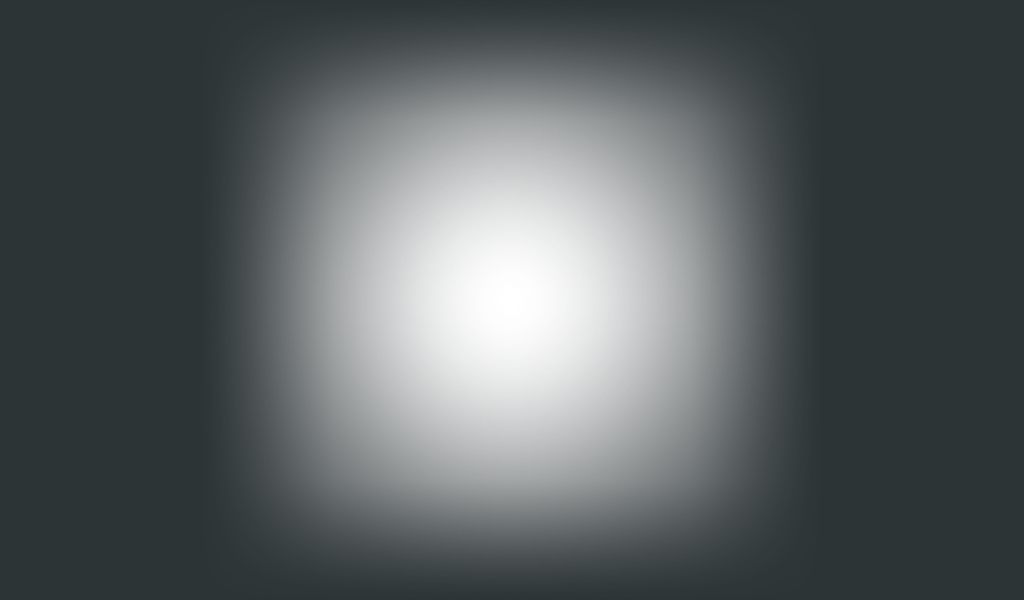
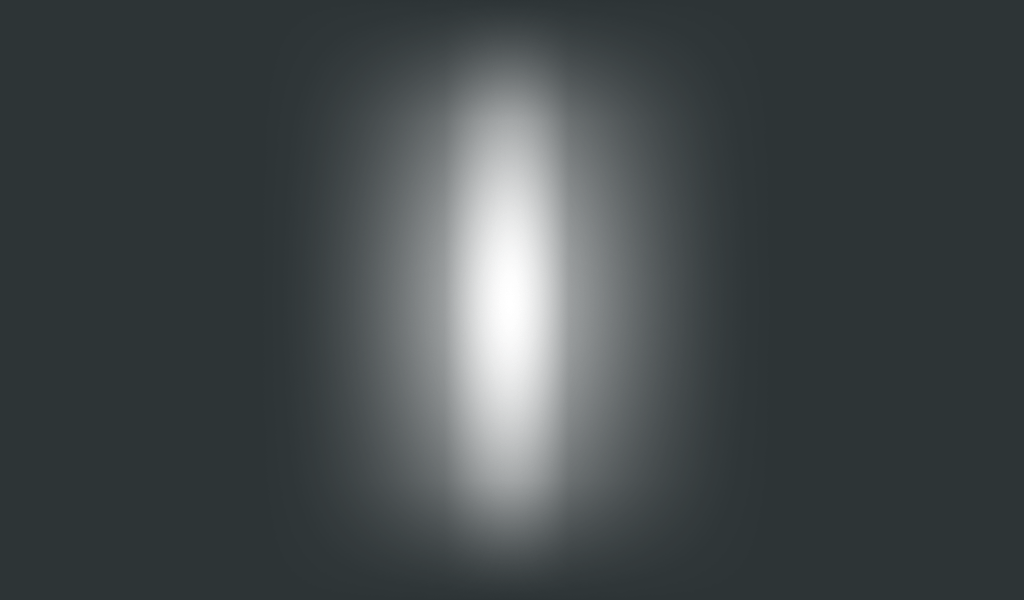
Added focused and open mode

diff --git a/main.qml b/main.qml
@@ -26,6 +26,7 @@ Window {
             gaugeOne.state === '' ? gaugeOne.state = 'other' : gaugeOne.state = ''
             gaugeTwo.state === '' ? gaugeTwo.state = 'other' : gaugeTwo.state = ''
             gradientImg.state === '' ? gradientImg.state = 'other' : gradientImg.state = ''
+            gradientEnclosedImg.state === '' ? gradientEnclosedImg.state = 'other' : gradientEnclosedImg.state = ''
         }
     }
 
@@ -80,7 +81,7 @@ Window {
             height: 600
             plugin: mapboxglPlugin
             center: QtPositioning.coordinate(40.71971, -73.99428)
-            zoomLevel: 18.4
+            zoomLevel: 17.5
             tilt: 90
             minimumZoomLevel: 5
             maximumZoomLevel: 50
@@ -104,21 +105,59 @@ Window {
         }
 
         Image {
-            id: gradientImg
+            id: gradientEnclosedImg
             x: 0
             y: 0
             z: 1
             source: "map-gradient-enclosed.png"
+            opacity: 1
 
             states: [
-                // This adds a second state to the container where the rectangle is farther to the right
+                State {
+                    name: "other"
 
+                    PropertyChanges {
+                        target: gradientEnclosedImg
+                        opacity: 0
+                    }
+                }
+            ]
+
+            transitions: [
+                Transition {
+                    NumberAnimation
+                    {
+                        properties: "opacity"
+                        duration: 800
+                    }
+                }
+            ]
+        }
+
+        Image {
+            id: gradientImg
+            x: 0
+            y: 0
+            z: 1
+            source: "map-gradient.png"
+
+            states: [
                 State {
                     name: "other"
 
                     PropertyChanges {
                         target: gradientImg
-                        source: "map-gradient.png"
+                        opacity: 1
+                    }
+                }
+            ]
+
+            transitions: [
+                Transition {
+                    NumberAnimation
+                    {
+                        properties: "opacity"
+                        duration: 800
                     }
                 }
             ]
@@ -157,7 +196,7 @@ Window {
        }
        PluginParameter {
            name: "mapboxgl.mapping.additional_style_urls"
-           value: "mapbox://styles/mapbox/dark-v10"
+           value: "mapbox://styles/filipv/ckyw4lmi0005b14pkmh140mi5"
        }
     }
 
